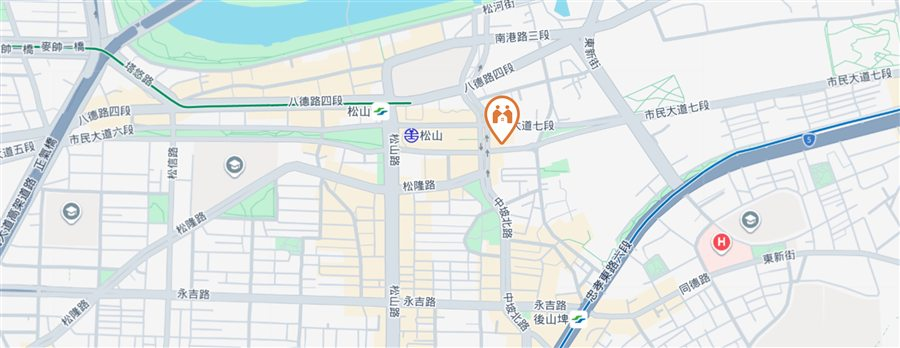
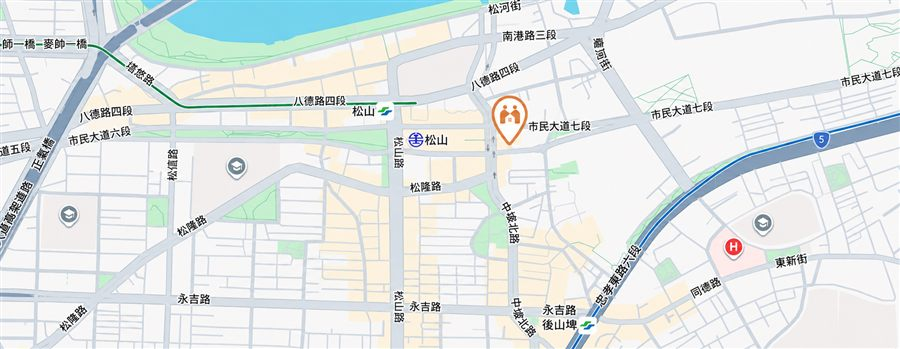
Update all 6 location map images from source, fix guting2 map reusing guting1 file, remove 關於我們/聯絡我們 links from footer brand column

diff --git a/_src/styles/main.css b/_src/styles/main.css
@@ -131,7 +131,7 @@
   .asset-map2-xinyi { background-image: url("/assets/images/map2-xinyi.jpg"); }
   .asset-map2-shida { background-image: url("/assets/images/map2-shida.jpg"); }
   .asset-map2-guting1 { background-image: url("/assets/images/map2-guting1.jpg"); }
-  .asset-map2-guting2 { background-image: url("/assets/images/map2-guting1.jpg"); }
+  .asset-map2-guting2 { background-image: url("/assets/images/map2-guting2.jpg"); }
   .asset-map2-zhongshan { background-image: url("/assets/images/map2-zhongshan.jpg"); }
   .nav-word { font-weight: 700; font-size: 16px; color: var(--ink); line-height: 1.2; }  .nav-word small { display: block; font-family: var(--font-mono); font-weight: 400; font-size: 9px; letter-spacing: 0.1em; color: var(--ink-faint); margin-top: 2px; }
   .nav-links { display: flex; gap: 26px; font-size: 13.5px; }

diff --git a/assets/css/main.css b/assets/css/main.css
@@ -131,7 +131,7 @@
   .asset-map2-xinyi { background-image: url("/assets/images/map2-xinyi.jpg"); }
   .asset-map2-shida { background-image: url("/assets/images/map2-shida.jpg"); }
   .asset-map2-guting1 { background-image: url("/assets/images/map2-guting1.jpg"); }
-  .asset-map2-guting2 { background-image: url("/assets/images/map2-guting1.jpg"); }
+  .asset-map2-guting2 { background-image: url("/assets/images/map2-guting2.jpg"); }
   .asset-map2-zhongshan { background-image: url("/assets/images/map2-zhongshan.jpg"); }
   .nav-word { font-weight: 700; font-size: 16px; color: var(--ink); line-height: 1.2; }  .nav-word small { display: block; font-family: var(--font-mono); font-weight: 400; font-size: 9px; letter-spacing: 0.1em; color: var(--ink-faint); margin-top: 2px; }
   .nav-links { display: flex; gap: 26px; font-size: 13.5px; }

diff --git a/index.html b/index.html
@@ -47,7 +47,7 @@
 }
 </script>
 <link rel="preload" as="image" href="/assets/images/songshan-lounge.jpg">
-<link rel="stylesheet" href="/assets/css/main.css?v=ae302d7e31">
+<link rel="stylesheet" href="/assets/css/main.css?v=ffb1478fbc">
 </head>
 <body data-page="home">
 
@@ -257,8 +257,6 @@
       <div class="footer-v2-inner">
         <div class="footer-col">
           <div class="footer-logo-mark photo-logo-full-vertical" role="img" aria-label="聚空間"></div>
-          <a href="/about/">關於我們</a>
-          <a href="/contact/tenant/">聯絡我們</a>
         </div>
         <div class="footer-col">
           <h4>共居找房</h4>

diff --git a/property-management/index.html b/property-management/index.html
@@ -17,7 +17,7 @@
 <meta property="og:locale" content="zh_TW">
 
 
-<link rel="stylesheet" href="/assets/css/main.css?v=ae302d7e31">
+<link rel="stylesheet" href="/assets/css/main.css?v=ffb1478fbc">
 </head>
 <body data-page="property-management">
 
@@ -255,8 +255,6 @@
       <div class="footer-v2-inner">
         <div class="footer-col">
           <div class="footer-logo-mark photo-logo-full-vertical" role="img" aria-label="聚空間"></div>
-          <a href="/about/">關於我們</a>
-          <a href="/contact/tenant/">聯絡我們</a>
         </div>
         <div class="footer-col">
           <h4>共居找房</h4>

diff --git a/contact/landlord/index.html b/contact/landlord/index.html
@@ -17,7 +17,7 @@
 <meta property="og:locale" content="zh_TW">
 
 
-<link rel="stylesheet" href="/assets/css/main.css?v=ae302d7e31">
+<link rel="stylesheet" href="/assets/css/main.css?v=ffb1478fbc">
 </head>
 <body data-page="contact-landlord">
 
@@ -181,8 +181,6 @@
       <div class="footer-v2-inner">
         <div class="footer-col">
           <div class="footer-logo-mark photo-logo-full-vertical" role="img" aria-label="聚空間"></div>
-          <a href="/about/">關於我們</a>
-          <a href="/contact/tenant/">聯絡我們</a>
         </div>
         <div class="footer-col">
           <h4>共居找房</h4>

diff --git a/contact/tenant/index.html b/contact/tenant/index.html
@@ -17,7 +17,7 @@
 <meta property="og:locale" content="zh_TW">
 
 
-<link rel="stylesheet" href="/assets/css/main.css?v=ae302d7e31">
+<link rel="stylesheet" href="/assets/css/main.css?v=ffb1478fbc">
 </head>
 <body data-page="contact-tenant">
 
@@ -142,8 +142,6 @@
       <div class="footer-v2-inner">
         <div class="footer-col">
           <div class="footer-logo-mark photo-logo-full-vertical" role="img" aria-label="聚空間"></div>
-          <a href="/about/">關於我們</a>
-          <a href="/contact/tenant/">聯絡我們</a>
         </div>
         <div class="footer-col">
           <h4>共居找房</h4>

diff --git a/coliving/index.html b/coliving/index.html
@@ -17,7 +17,7 @@
 <meta property="og:locale" content="zh_TW">
 
 
-<link rel="stylesheet" href="/assets/css/main.css?v=ae302d7e31">
+<link rel="stylesheet" href="/assets/css/main.css?v=ffb1478fbc">
 </head>
 <body data-page="coliving">
 
@@ -184,8 +184,6 @@
       <div class="footer-v2-inner">
         <div class="footer-col">
           <div class="footer-logo-mark photo-logo-full-vertical" role="img" aria-label="聚空間"></div>
-          <a href="/about/">關於我們</a>
-          <a href="/contact/tenant/">聯絡我們</a>
         </div>
         <div class="footer-col">
           <h4>共居找房</h4>

diff --git a/about/index.html b/about/index.html
@@ -17,7 +17,7 @@
 <meta property="og:locale" content="zh_TW">
 
 
-<link rel="stylesheet" href="/assets/css/main.css?v=ae302d7e31">
+<link rel="stylesheet" href="/assets/css/main.css?v=ffb1478fbc">
 </head>
 <body data-page="about">
 
@@ -286,8 +286,6 @@
       <div class="footer-v2-inner">
         <div class="footer-col">
           <div class="footer-logo-mark photo-logo-full-vertical" role="img" aria-label="聚空間"></div>
-          <a href="/about/">關於我們</a>
-          <a href="/contact/tenant/">聯絡我們</a>
         </div>
         <div class="footer-col">
           <h4>共居找房</h4>

diff --git a/locations/zhongshan/index.html b/locations/zhongshan/index.html
@@ -87,7 +87,7 @@
 }
 </script>
 
-<link rel="stylesheet" href="/assets/css/main.css?v=ae302d7e31">
+<link rel="stylesheet" href="/assets/css/main.css?v=ffb1478fbc">
 </head>
 <body data-page="location-zhongshan">
 
@@ -302,8 +302,6 @@
       <div class="footer-v2-inner">
         <div class="footer-col">
           <div class="footer-logo-mark photo-logo-full-vertical" role="img" aria-label="聚空間"></div>
-          <a href="/about/">關於我們</a>
-          <a href="/contact/tenant/">聯絡我們</a>
         </div>
         <div class="footer-col">
           <h4>共居找房</h4>

diff --git a/locations/songshan/index.html b/locations/songshan/index.html
@@ -87,7 +87,7 @@
 }
 </script>
 
-<link rel="stylesheet" href="/assets/css/main.css?v=ae302d7e31">
+<link rel="stylesheet" href="/assets/css/main.css?v=ffb1478fbc">
 </head>
 <body data-page="location-songshan">
 
@@ -311,8 +311,6 @@
       <div class="footer-v2-inner">
         <div class="footer-col">
           <div class="footer-logo-mark photo-logo-full-vertical" role="img" aria-label="聚空間"></div>
-          <a href="/about/">關於我們</a>
-          <a href="/contact/tenant/">聯絡我們</a>
         </div>
         <div class="footer-col">
           <h4>共居找房</h4>

diff --git a/locations/guting1/index.html b/locations/guting1/index.html
@@ -87,7 +87,7 @@
 }
 </script>
 
-<link rel="stylesheet" href="/assets/css/main.css?v=ae302d7e31">
+<link rel="stylesheet" href="/assets/css/main.css?v=ffb1478fbc">
 </head>
 <body data-page="location-guting1">
 
@@ -307,8 +307,6 @@
       <div class="footer-v2-inner">
         <div class="footer-col">
           <div class="footer-logo-mark photo-logo-full-vertical" role="img" aria-label="聚空間"></div>
-          <a href="/about/">關於我們</a>
-          <a href="/contact/tenant/">聯絡我們</a>
         </div>
         <div class="footer-col">
           <h4>共居找房</h4>

diff --git a/locations/guting2/index.html b/locations/guting2/index.html
@@ -87,7 +87,7 @@
 }
 </script>
 
-<link rel="stylesheet" href="/assets/css/main.css?v=ae302d7e31">
+<link rel="stylesheet" href="/assets/css/main.css?v=ffb1478fbc">
 </head>
 <body data-page="location-guting2">
 
@@ -307,8 +307,6 @@
       <div class="footer-v2-inner">
         <div class="footer-col">
           <div class="footer-logo-mark photo-logo-full-vertical" role="img" aria-label="聚空間"></div>
-          <a href="/about/">關於我們</a>
-          <a href="/contact/tenant/">聯絡我們</a>
         </div>
         <div class="footer-col">
           <h4>共居找房</h4>
